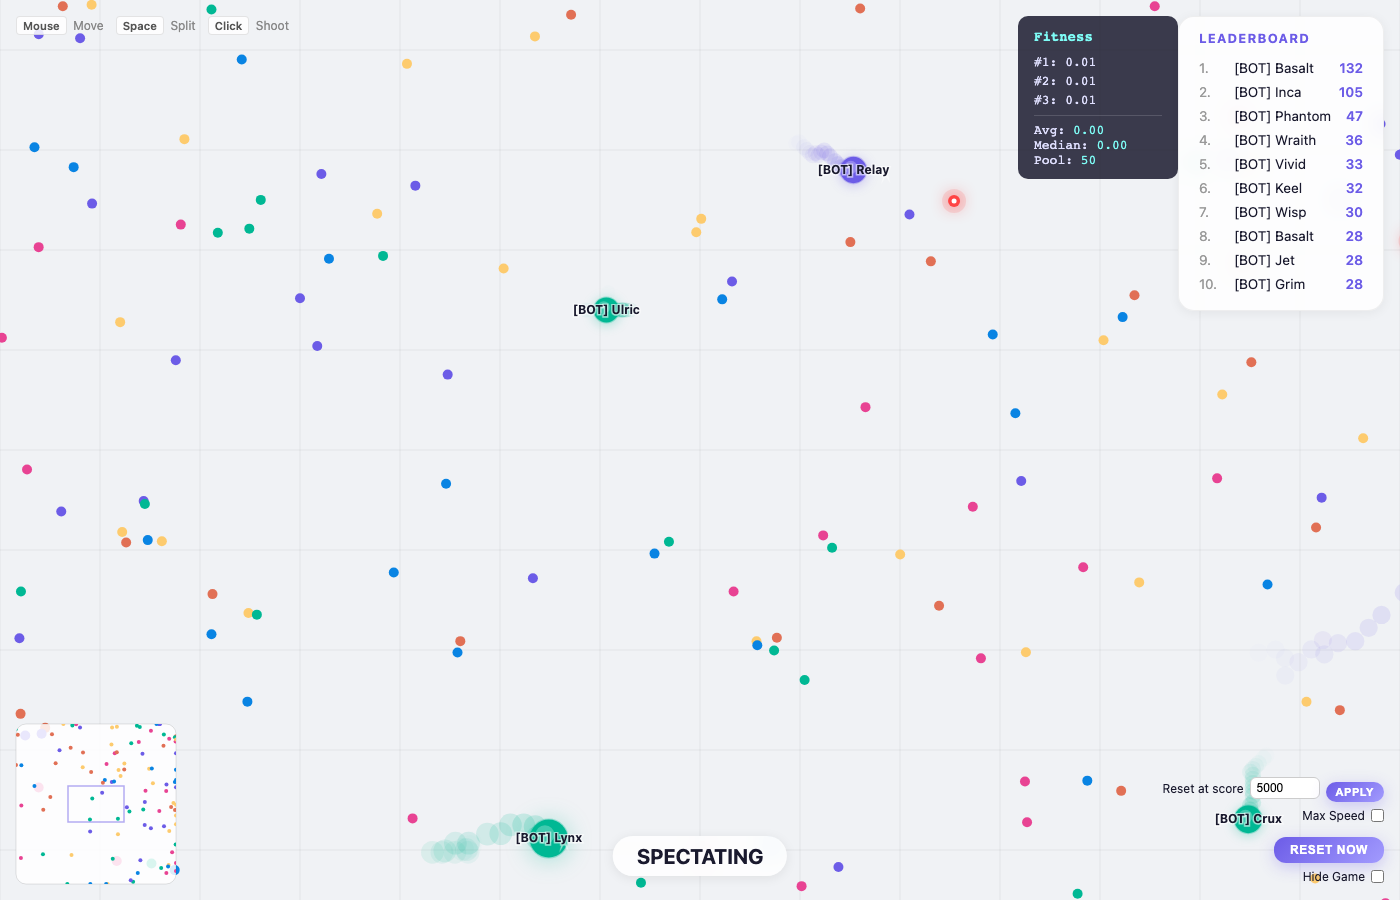
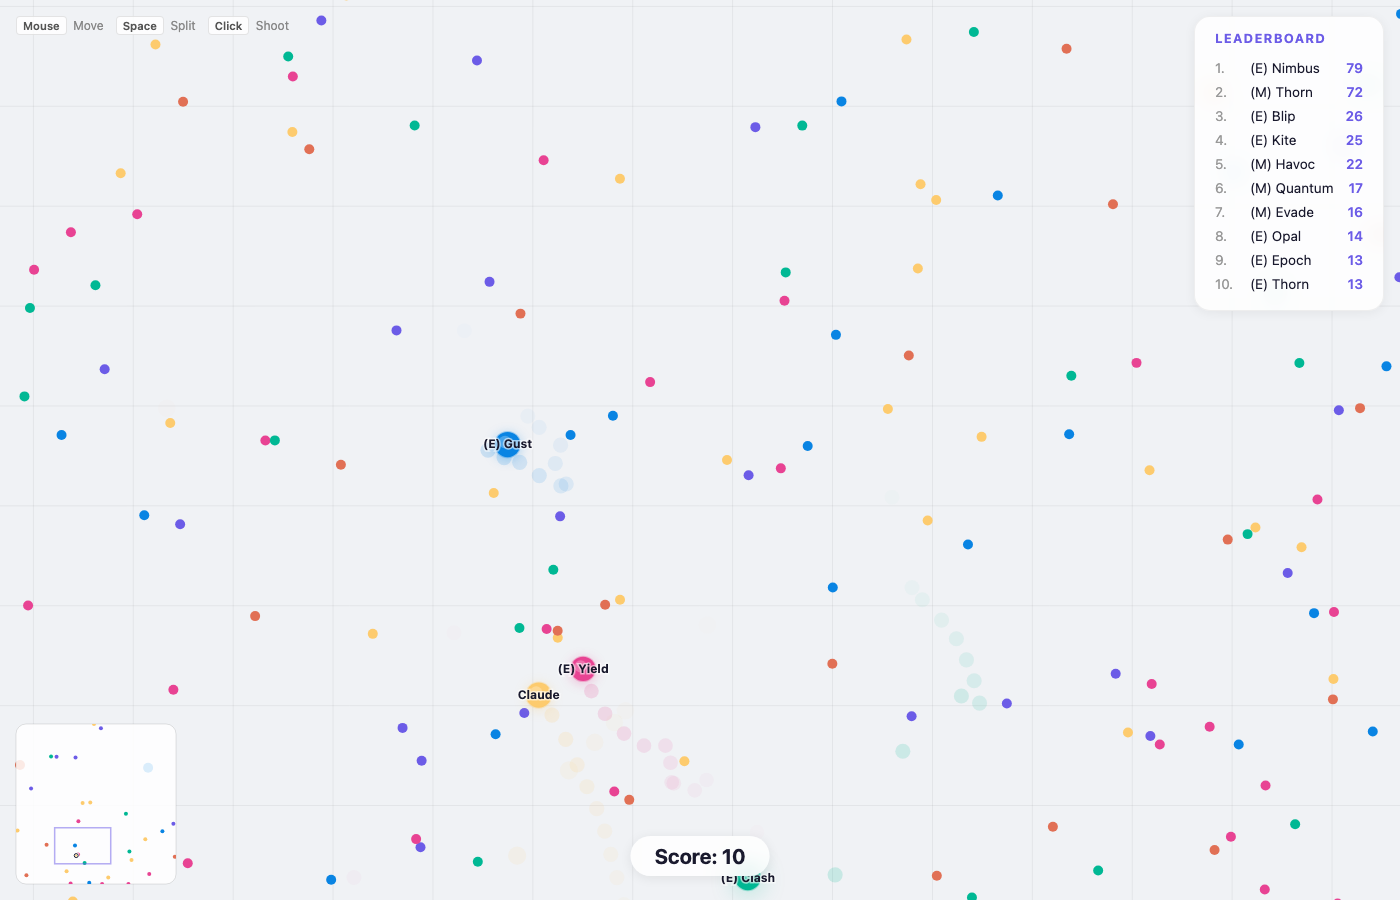
docs: recapture screenshots and add admin dashboard to README
Replace stale screenshots with fresh captures. Add admin dashboard
screenshot and move its section earlier in the README. Remove stats-view
screenshot since the Hide Game toggle is not yet implemented.

diff --git a/README.md b/README.md
@@ -61,9 +61,11 @@ In spectate mode you can observe the AI bots competing and evolving in real time
 - **Mouse wheel** — Zoom in/out
 - **Reset at score** — Automatically reset the game when any player reaches a score threshold (forces new generations)
 - **Max Speed** — Run the simulation without tick delay for faster evolution
-- **Hide Game** — Disables canvas rendering to save resources, showing only the leaderboard and fitness stats (top 10)
+## Admin Dashboard
 
-![Stats View](docs/screenshots/stats-view.png)
+![Admin Dashboard](docs/screenshots/admin-dashboard.png)
+
+The project includes a password-protected admin panel at `/admin/` for monitoring the simulation, adjusting game settings, and viewing round history.
 
 ## AI Architecture
 
@@ -129,28 +131,6 @@ fitness = (score + playerMassEaten) × (1 / sqrt(aliveTicks)) × monopolyPenalty
 ### Genome Persistence
 
 Evolved neural network weights auto-save to `ai_genomes_easy.json` and `ai_genomes_medium.json` every 60 seconds. Each tier has its own genome file. These files persist across server restarts, allowing evolution to continue across sessions. Delete them to start fresh.
-
-## Admin Dashboard
-
-The project includes a password-protected admin panel for managing game settings, viewing history, and monitoring the simulation.
-
-### Features
-
-- **Collapsible sidebar** with icon-based navigation (Dashboard, Settings, Game History)
-- **Dark/light theme toggle** — persists across sessions via `localStorage`
-- **Sidebar state memory** — collapse/expand state persists via `localStorage`
-- **Responsive layout** — mobile hamburger menu, sticky top navbar
-- **HeroIcon tag helper** — inline SVG icons via `<icon name="..." size="5" />` syntax
-
-### Building Admin CSS
-
-The admin UI uses Tailwind CSS v4 with DaisyUI v5, built via Vite:
-
-```bash
-cd AgarIA.Web
-npm run build       # One-time production build
-npm run dev         # Watch mode for development
-```
 
 ## Tech Stack
 
